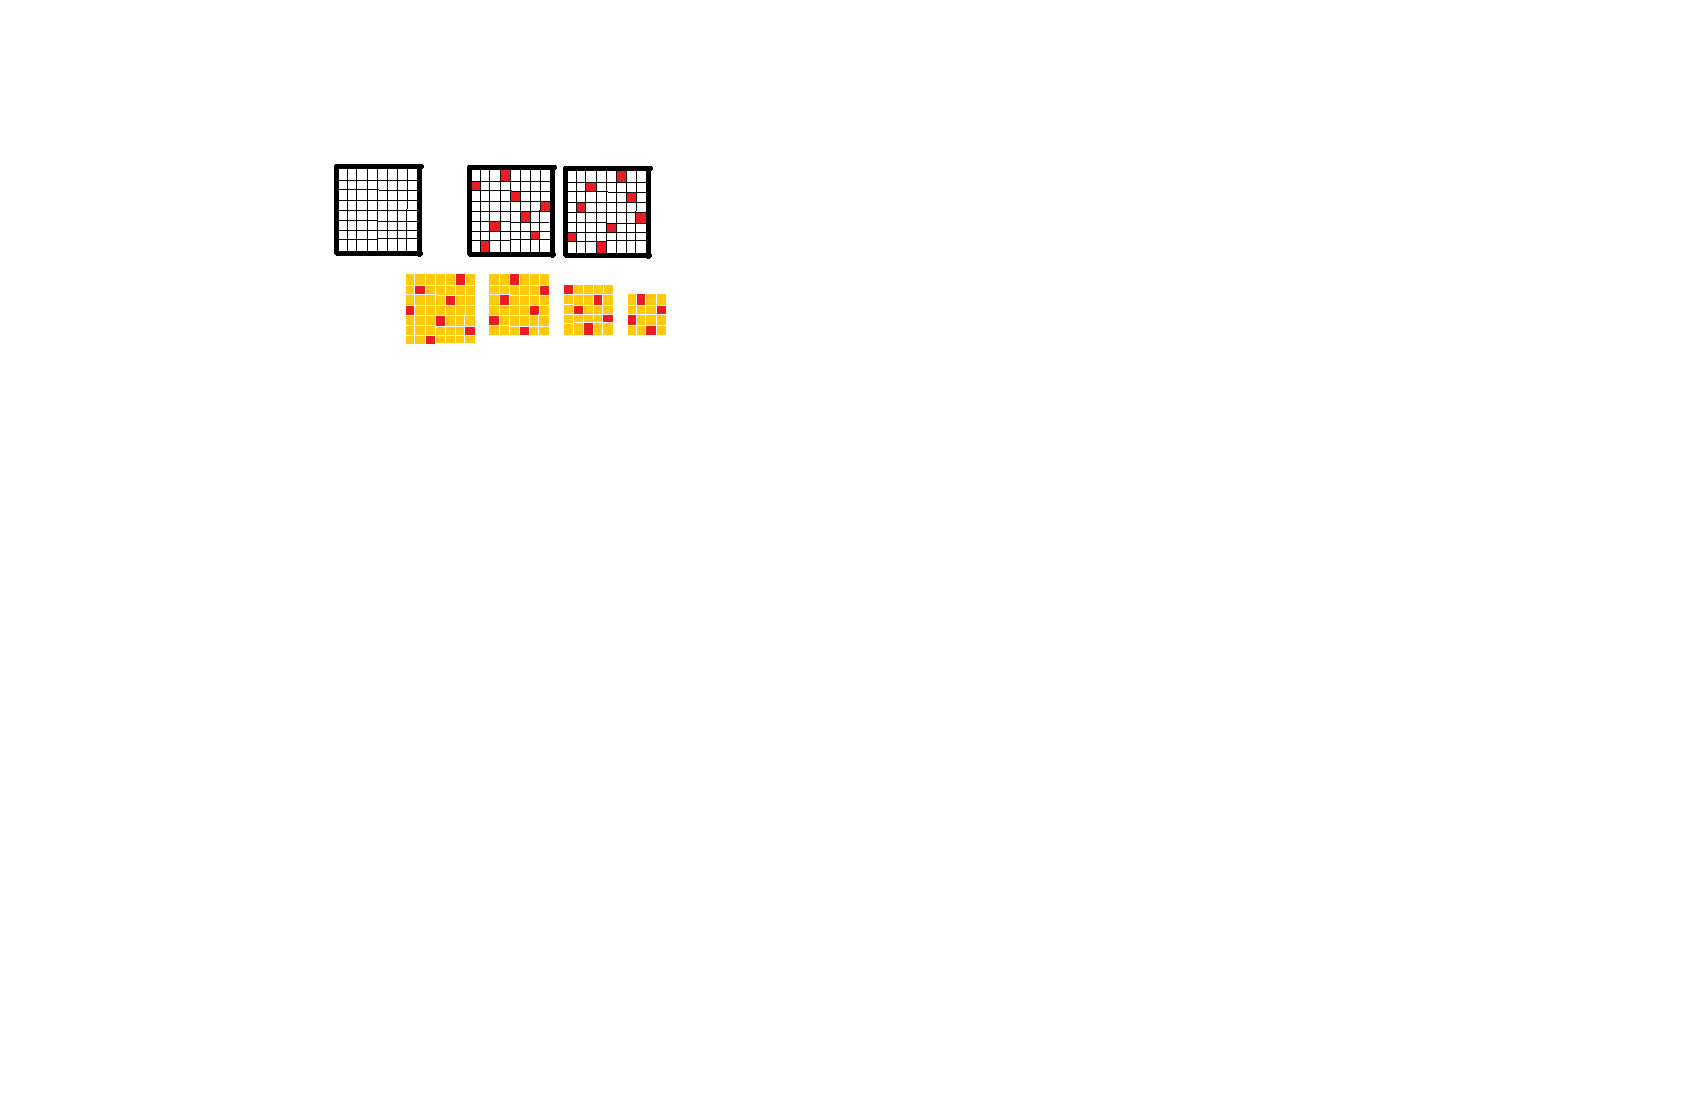
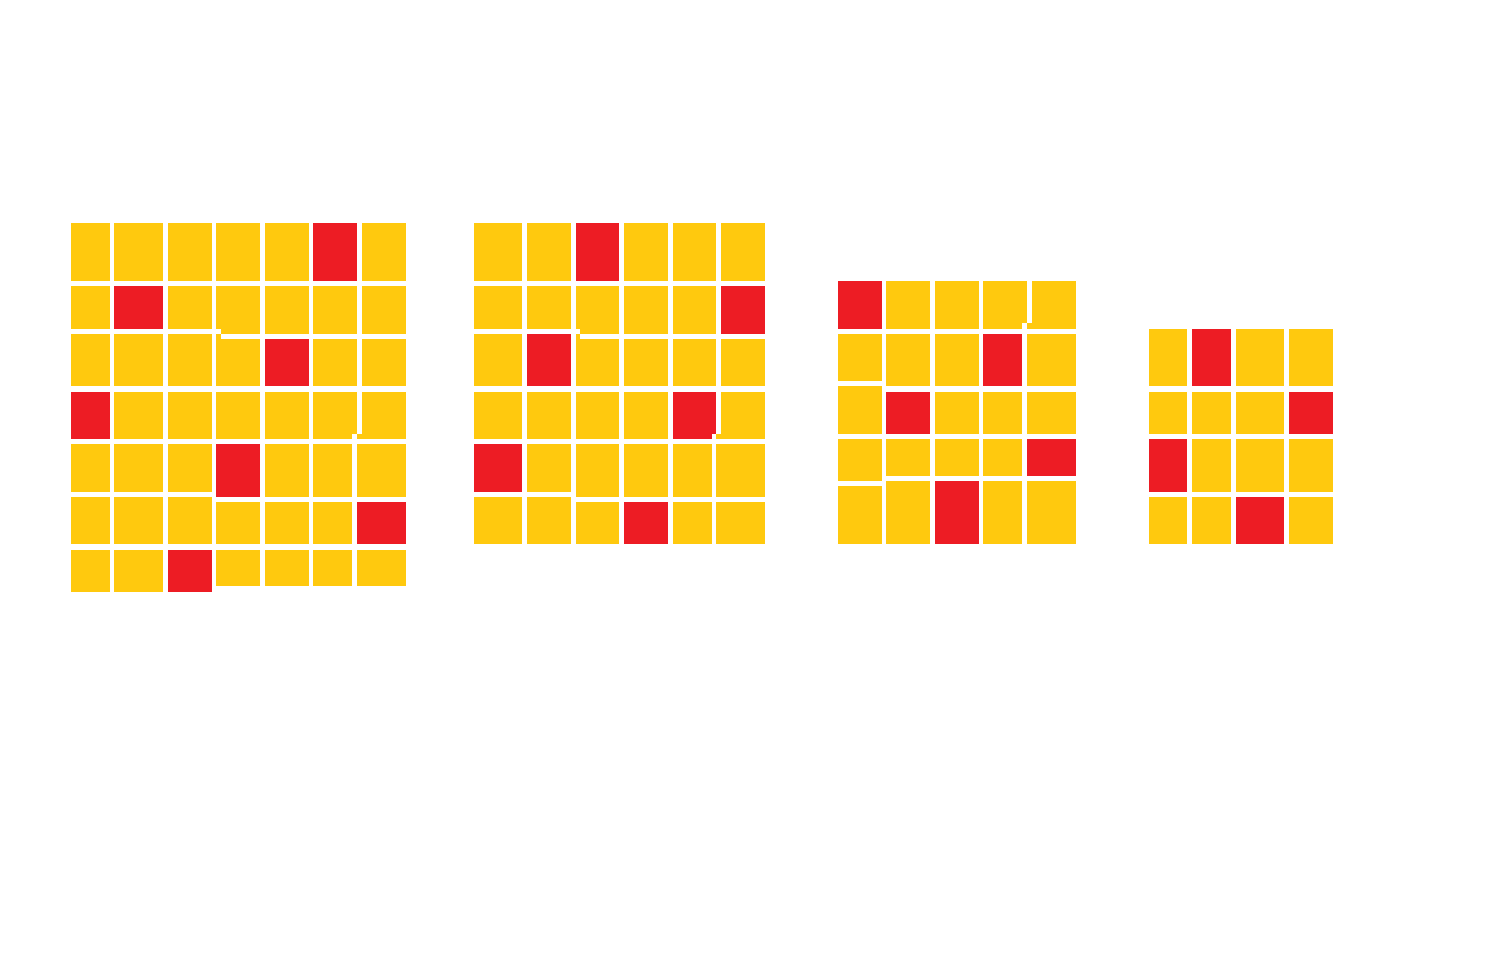
some changes to visualize the problem

Changed region(s): [[0.0309, 0.1245, 0.5255, 0.6224], [0.5565, 0.2801, 0.7419, 0.5913], [0.7728, 0.3423, 0.8965, 0.5913]]

diff --git a/N_queen_main.py b/N_queen_main.py
@@ -62,4 +62,7 @@ def chess(s, r, c):
             q = 0
             q = fill(r, c, q)
 
-print(chess(4, 0, 2))
+f = open("new_f.txt", "a")
+f.write(chess(8, 0, 2))
+f.write("\n\n")
+f.close()
